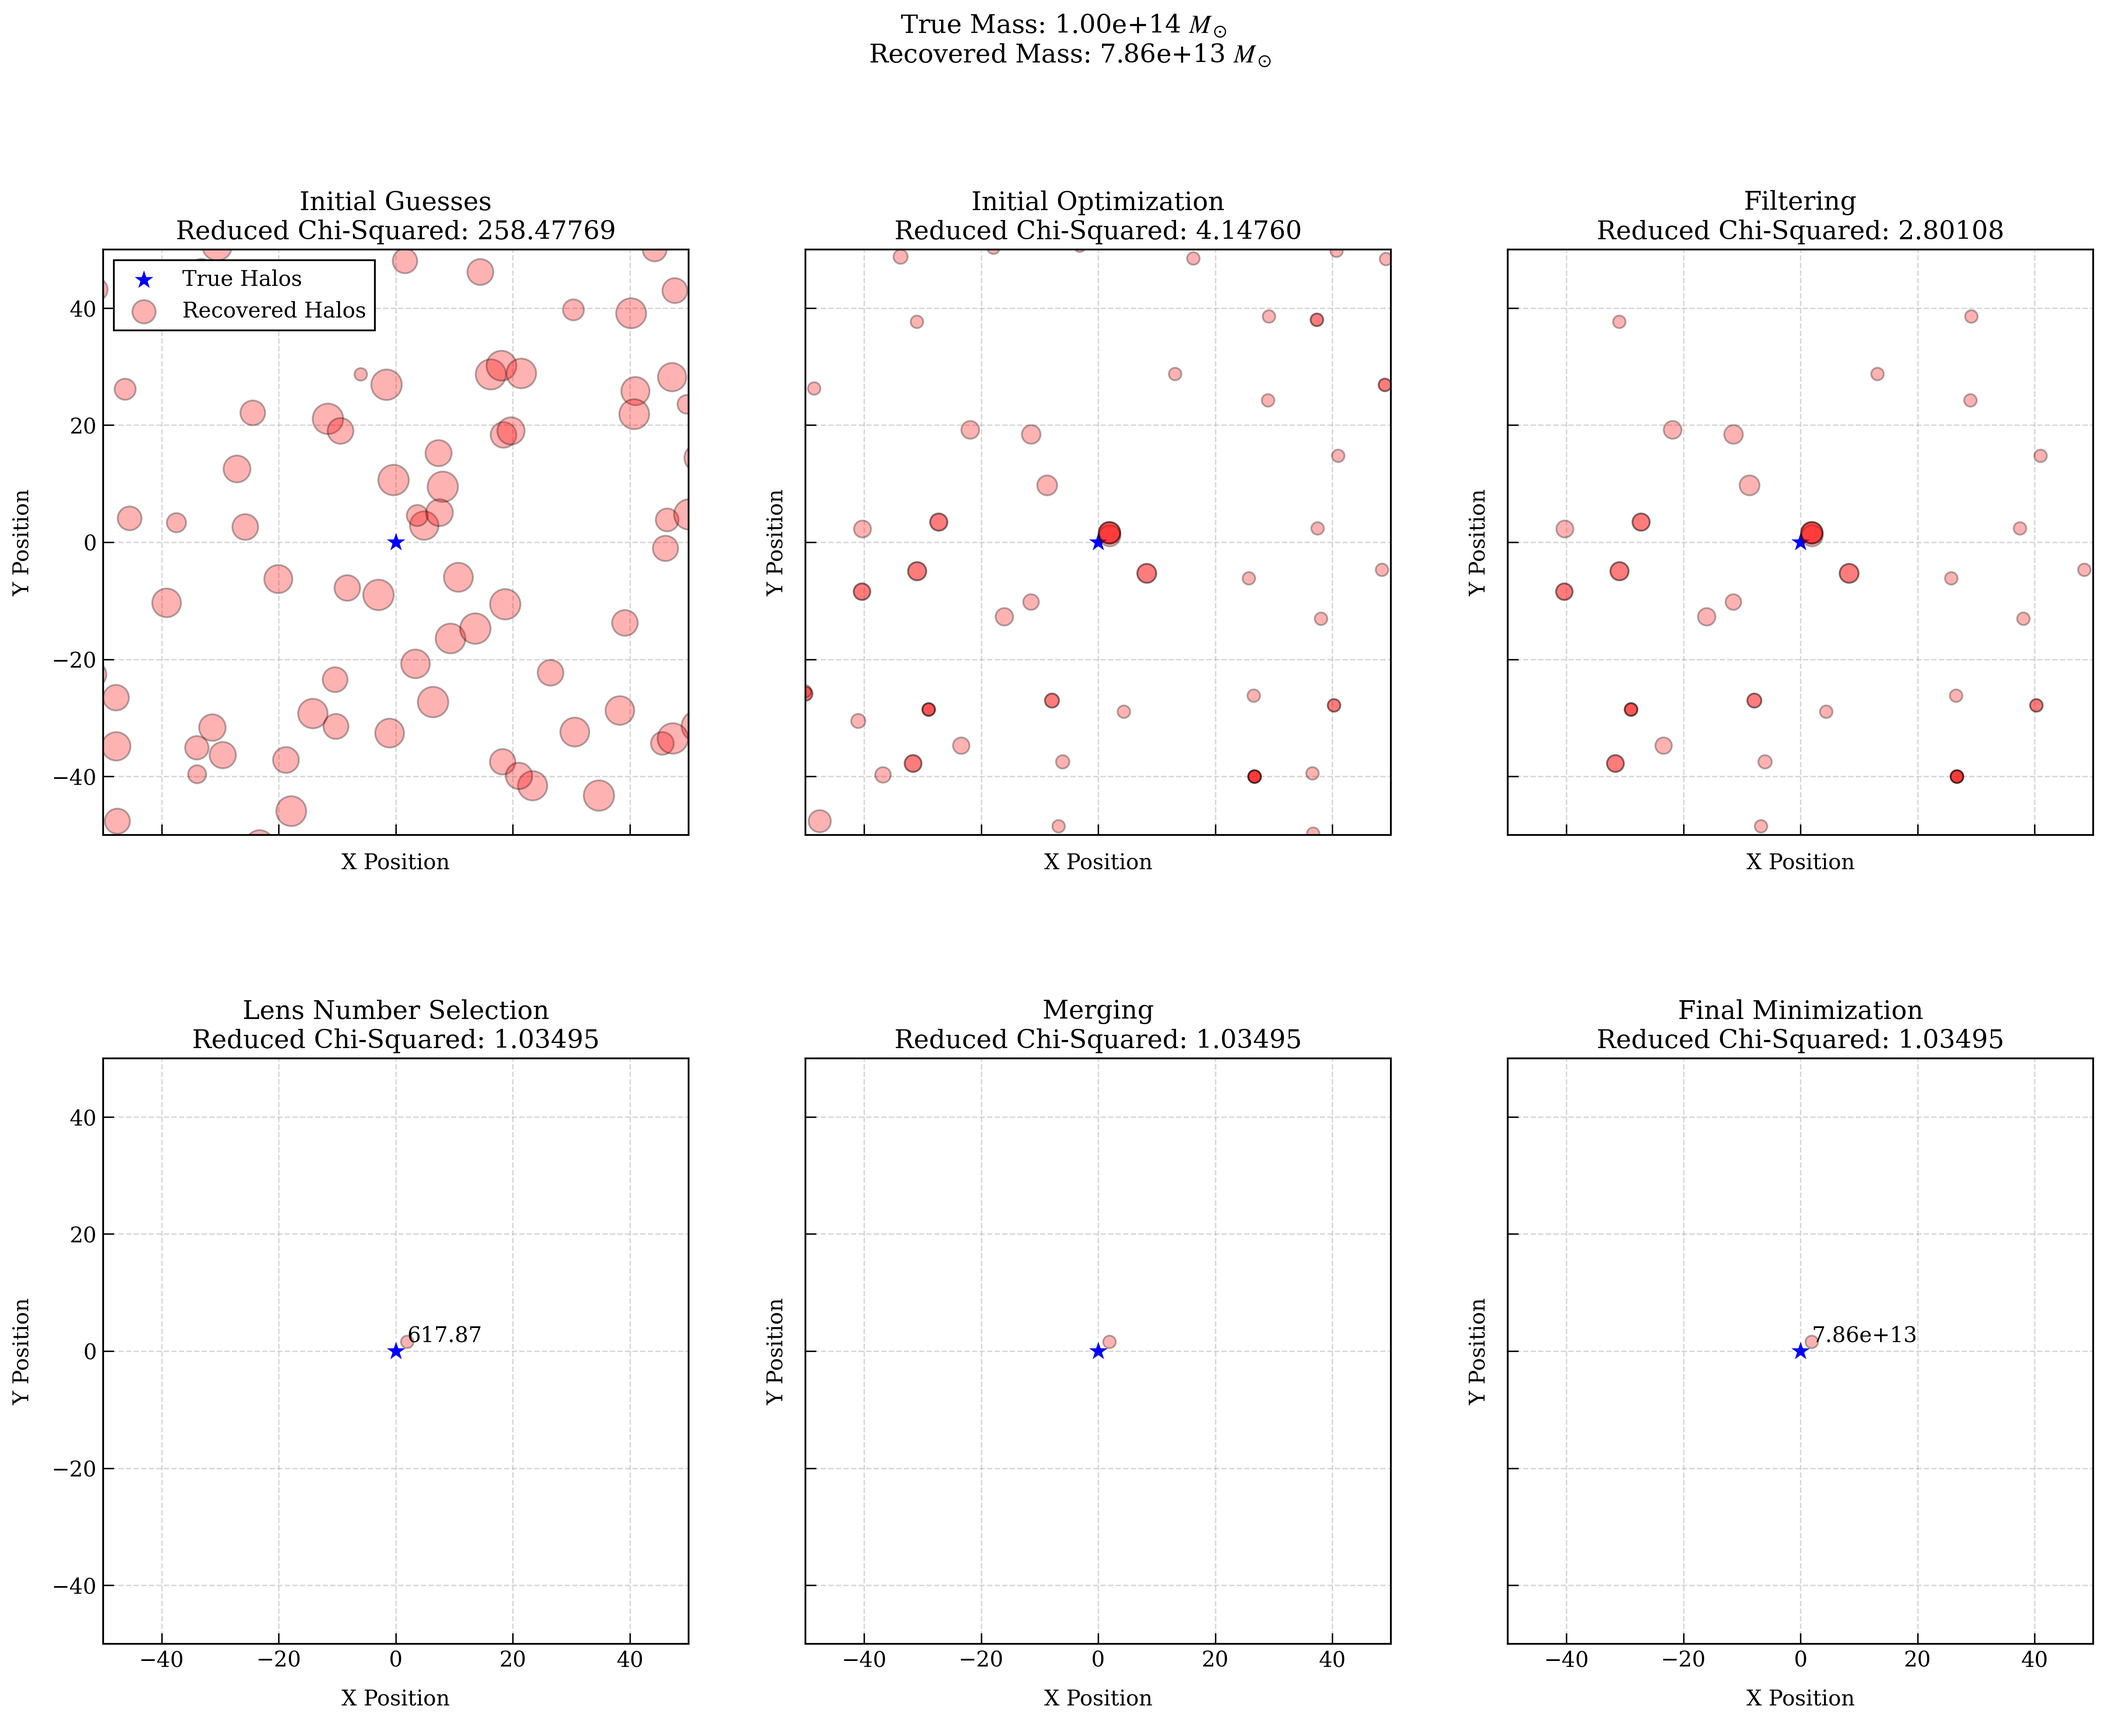
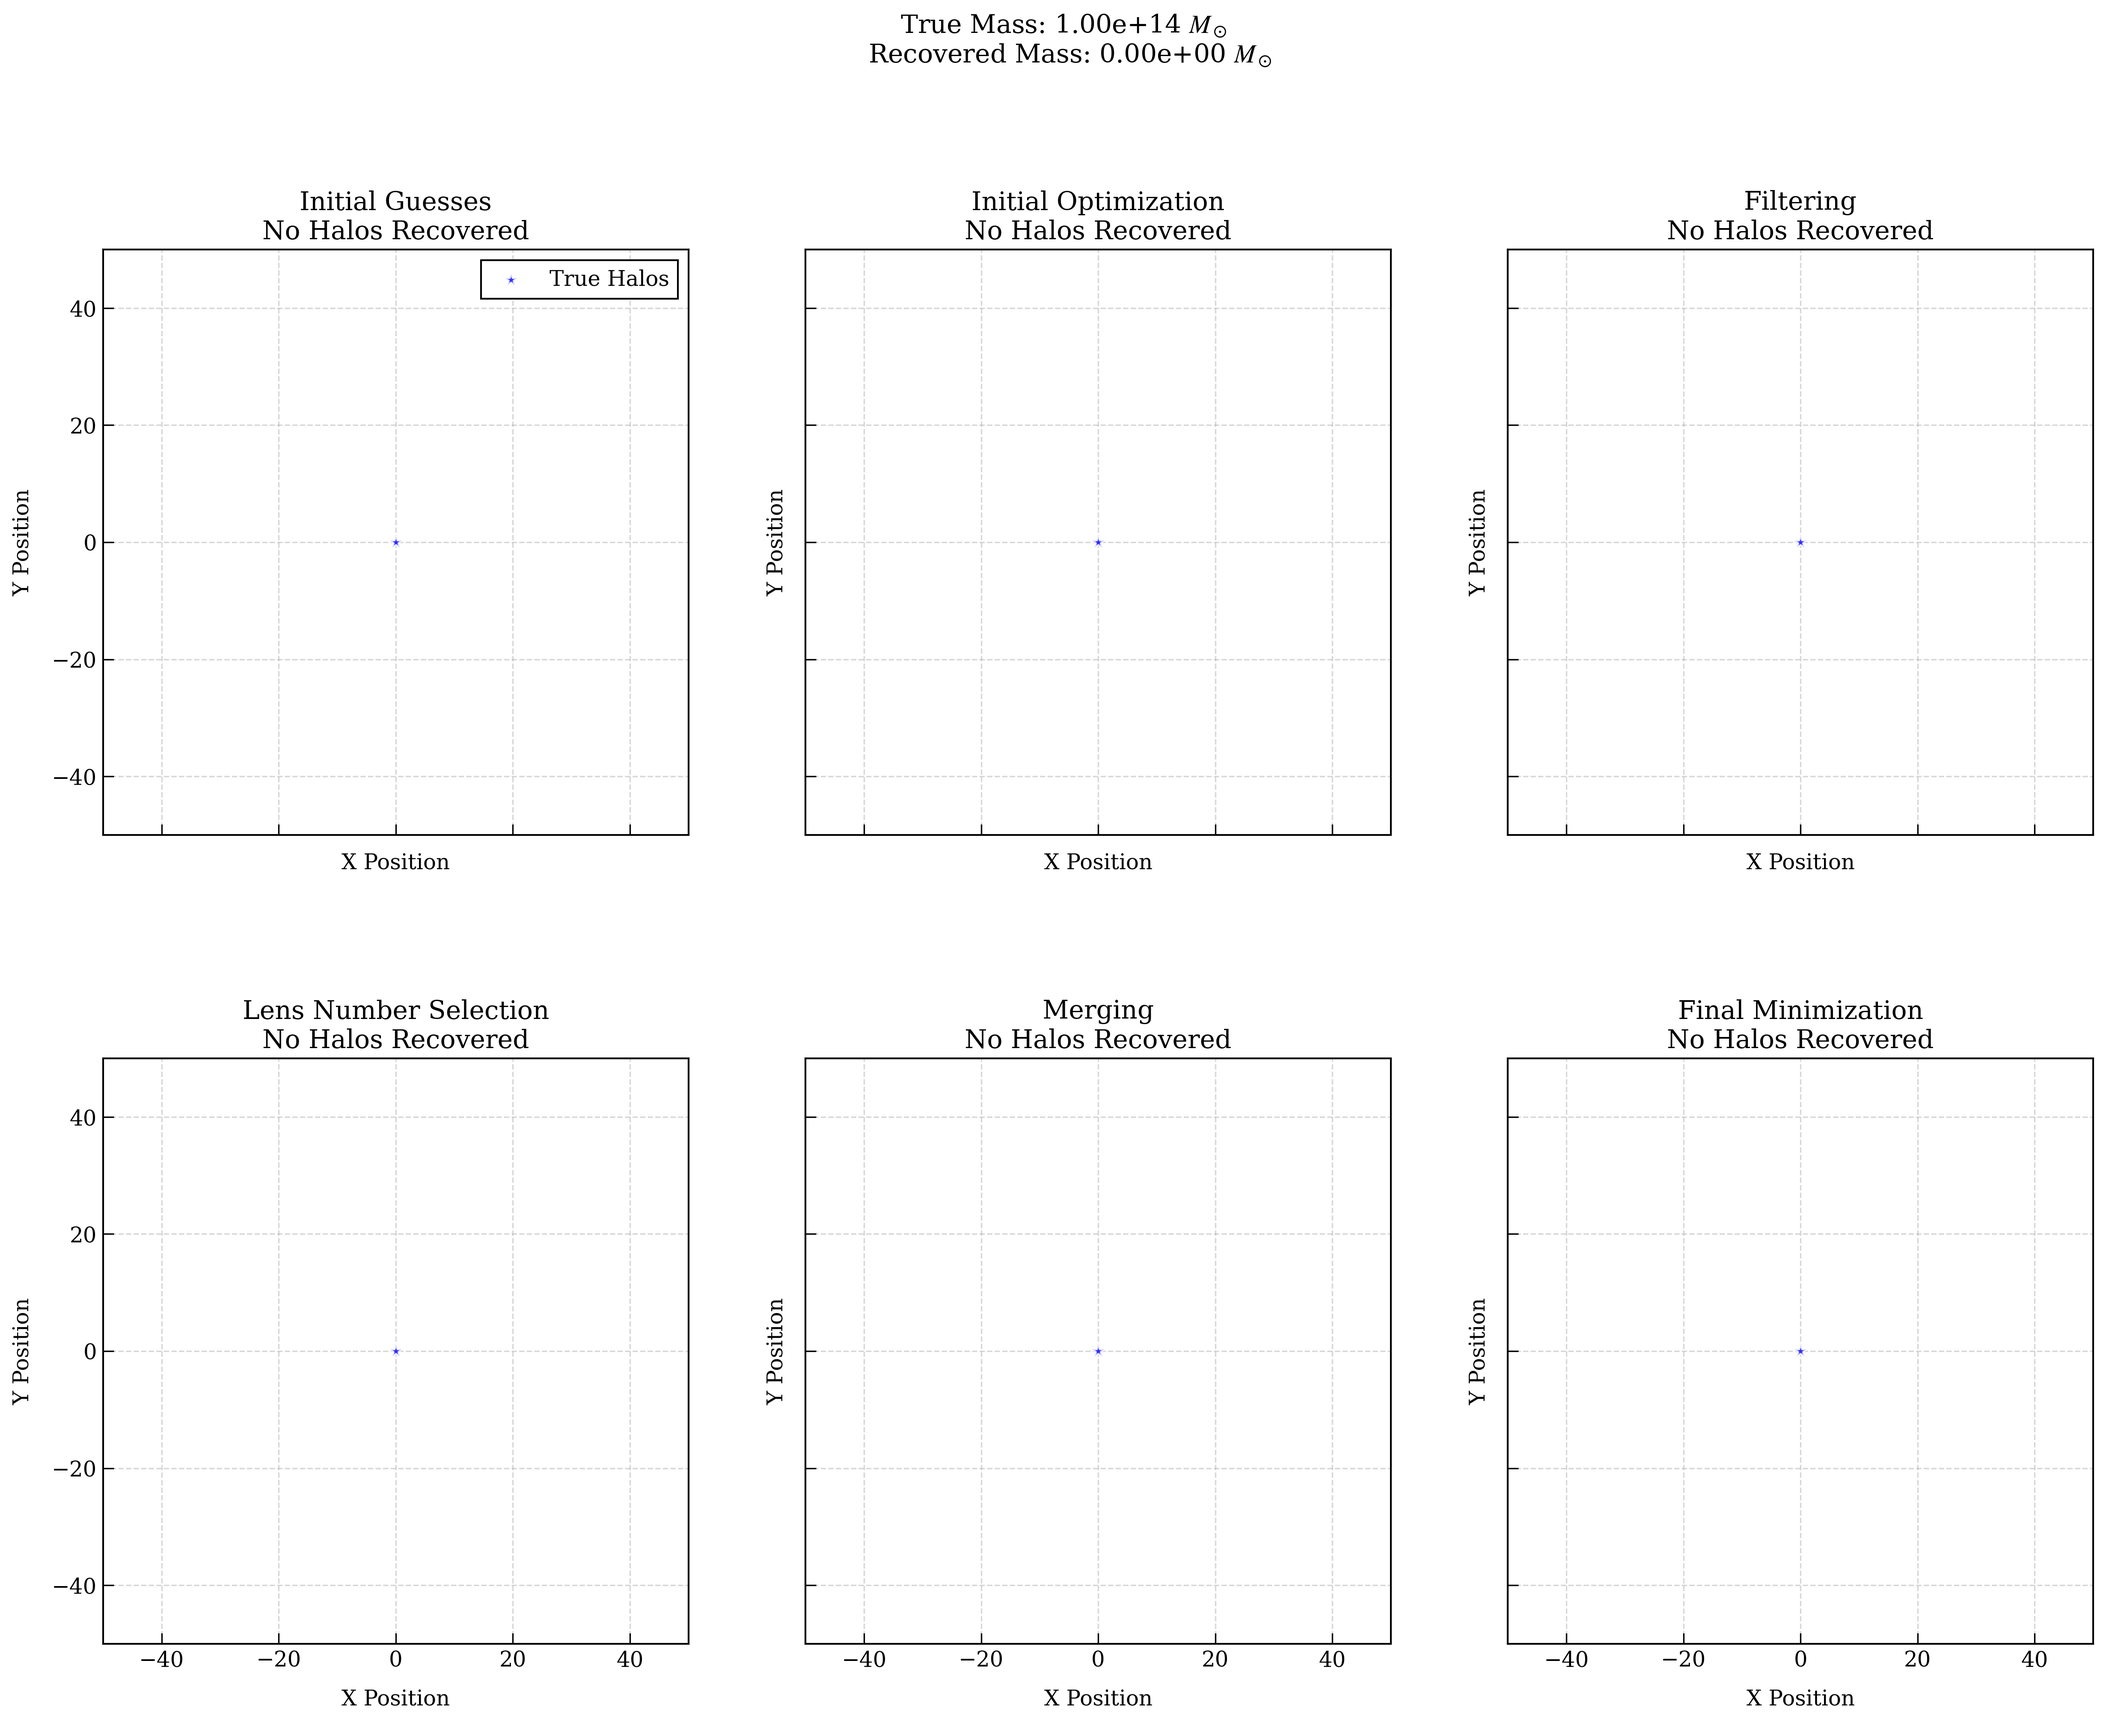
Removed unused function from pipeline

diff --git a/pipeline.py b/pipeline.py
@@ -483,162 +483,6 @@ def select_best_lenses_forward_selection(sources, candidate_lenses, use_flags, l
     return selected_lenses, best_reduced_chi2
 
 
-def select_best_lenses_with_backward_elimination(
-    sources,
-    candidate_lenses,
-    use_flags,
-    lens_type='NFW',
-    chi2_threshold=1.0,
-    tolerance=0.01
-):
-    """
-    Selects the best combination of lenses by performing forward selection followed
-    by backward elimination to minimize the reduced chi-squared value.
-
-    Parameters:
-        sources (Source): Object containing source positions and measured lensing signals.
-        candidate_lenses (NFW_Lens): NFW_Lens object containing candidate lenses.
-        use_flags (list of bool): Flags indicating which lensing signals to use [shear, flexion, second flexion].
-        lens_type (str): Type of lensing model ('SIS' or 'NFW'). Default is 'NFW'.
-        chi2_threshold (float): Target reduced chi-squared value.
-        tolerance (float): Tolerance for improvement.
-
-    Returns:
-        final_lenses (NFW_Lens): NFW_Lens object with selected lenses after backward elimination.
-        final_reduced_chi2 (float): The minimized reduced chi-squared value.
-    """
-    import numpy as np
-
-    # -------- Forward Selection --------
-    # Start with an empty set of lenses
-    selected_lenses = halo_obj.NFW_Lens(
-        x=np.array([]),
-        y=np.array([]),
-        z=np.array([]),
-        concentration=np.array([]),
-        mass=np.array([]),
-        redshift=candidate_lenses.redshift,
-        chi2=np.array([])
-    )
-
-    remaining_indices = np.arange(len(candidate_lenses.x))
-    best_reduced_chi2 = np.inf
-    improved = True
-
-    while improved and len(remaining_indices) > 0:
-        improved = False
-        chi2_list = []
-        lens_indices = []
-
-        # Evaluate the effect of adding each remaining lens
-        for idx in remaining_indices:
-            # Create a test lens set with the candidate lens added
-            test_lenses = halo_obj.NFW_Lens(
-                x=np.append(selected_lenses.x, candidate_lenses.x[idx]),
-                y=np.append(selected_lenses.y, candidate_lenses.y[idx]),
-                z=np.append(selected_lenses.z, candidate_lenses.z[idx]),
-                concentration=np.append(selected_lenses.concentration, candidate_lenses.concentration[idx]),
-                mass=np.append(selected_lenses.mass, candidate_lenses.mass[idx]),
-                redshift=candidate_lenses.redshift,
-                chi2=np.append(selected_lenses.chi2, candidate_lenses.chi2[idx])
-            )
-            # Compute chi-squared and reduced chi-squared
-            chi2 = metric.calculate_chi_squared(sources, test_lenses, use_flags, lens_type=lens_type)
-            dof = metric.calc_degrees_of_freedom(sources, test_lenses, use_flags)
-            reduced_chi2 = chi2 / dof if dof > 0 else np.inf
-            chi2_list.append(reduced_chi2)
-            lens_indices.append(idx)
-
-        # Find the lens whose addition leads to the best reduced chi-squared
-        min_chi2 = min(chi2_list)
-        min_index = chi2_list.index(min_chi2)
-
-        # Check if adding the lens improves the reduced chi-squared
-        if min_chi2 < best_reduced_chi2 - tolerance:
-            # Update the best lenses and reduced chi-squared
-            best_reduced_chi2 = min_chi2
-            idx_to_add = lens_indices[min_index]
-            print(f"Adding lens {idx_to_add} improves reduced chi-squared to {best_reduced_chi2:.4f}")
-            # Add the lens to selected_lenses
-            selected_lenses = halo_obj.NFW_Lens(
-                x=np.append(selected_lenses.x, candidate_lenses.x[idx_to_add]),
-                y=np.append(selected_lenses.y, candidate_lenses.y[idx_to_add]),
-                z=np.append(selected_lenses.z, candidate_lenses.z[idx_to_add]),
-                concentration=np.append(selected_lenses.concentration, candidate_lenses.concentration[idx_to_add]),
-                mass=np.append(selected_lenses.mass, candidate_lenses.mass[idx_to_add]),
-                redshift=candidate_lenses.redshift,
-                chi2=np.append(selected_lenses.chi2, candidate_lenses.chi2[idx_to_add])
-            )
-            # Remove the lens from remaining_indices
-            remaining_indices = np.delete(remaining_indices, min_index)
-            improved = True
-        else:
-            # No improvement, stop the iteration
-            print("No further improvement found in forward selection.")
-            break
-
-    # -------- Backward Elimination --------
-    print("\nStarting backward elimination...")
-    improved = True
-
-    while improved and len(selected_lenses.x) > 1:
-        improved = False
-        chi2_list = []
-        lens_indices = []
-
-        n_lenses = len(selected_lenses.x)
-
-        # Evaluate the effect of removing each lens
-        for i in range(n_lenses):
-            # Create a test lens set with lens i removed
-            test_lenses = halo_obj.NFW_Lens(
-                x=np.delete(selected_lenses.x, i),
-                y=np.delete(selected_lenses.y, i),
-                z=np.delete(selected_lenses.z, i),
-                concentration=np.delete(selected_lenses.concentration, i),
-                mass=np.delete(selected_lenses.mass, i),
-                redshift=selected_lenses.redshift,
-                chi2=np.delete(selected_lenses.chi2, i)
-            )
-            # Compute chi-squared and reduced chi-squared
-            chi2 = metric.calculate_chi_squared(sources, test_lenses, use_flags, lens_type=lens_type)
-            dof = metric.calc_degrees_of_freedom(sources, test_lenses, use_flags)
-            reduced_chi2 = chi2 / dof if dof > 0 else np.inf
-            chi2_list.append(reduced_chi2)
-            lens_indices.append(i)
-
-        # Find the lens whose removal leads to the lowest increase in reduced chi-squared
-        min_chi2 = min(chi2_list)
-        min_index = chi2_list.index(min_chi2)
-
-        # Check if removing the lens does not worsen the reduced chi-squared beyond the tolerance
-        if min_chi2 < best_reduced_chi2 + tolerance:
-            # Update the best lenses and reduced chi-squared
-            best_reduced_chi2 = min_chi2
-            idx_to_remove = lens_indices[min_index]
-            print(f"Removing lens {idx_to_remove} improves or maintains reduced chi-squared to {best_reduced_chi2:.4f}")
-            # Remove the lens from selected_lenses
-            selected_lenses = halo_obj.NFW_Lens(
-                x=np.delete(selected_lenses.x, idx_to_remove),
-                y=np.delete(selected_lenses.y, idx_to_remove),
-                z=np.delete(selected_lenses.z, idx_to_remove),
-                concentration=np.delete(selected_lenses.concentration, idx_to_remove),
-                mass=np.delete(selected_lenses.mass, idx_to_remove),
-                redshift=selected_lenses.redshift,
-                chi2=np.delete(selected_lenses.chi2, idx_to_remove)
-            )
-            improved = True
-        else:
-            # No improvement, stop the iteration
-            print("No further improvement found in backward elimination.")
-            break
-
-    final_lenses = selected_lenses
-    final_reduced_chi2 = best_reduced_chi2
-
-    return final_lenses, final_reduced_chi2
-
-
 def optimize_nfw_lens_strength(sources, lenses, use_flags, num_iterations=1000):
     """
     Optimizes the mass parameters of NFW lenses via local minimization.

diff --git a/tests_NFW.py b/tests_NFW.py
@@ -214,9 +214,7 @@ def pipeline_breakdown(sources, true_lenses, xmax, use_flags, noisy, name=None, 
         print('Finished filtering')
 
     # Step 4: Iterative elimination
-    # lenses = pipeline.iterative_elimination(sources, lenses, reduced_chi2, use_flags)
     lenses, _ = pipeline.select_best_lenses_forward_selection(sources, lenses, use_flags, lens_type='NFW')
-    # lenses, _ = pipeline.select_best_lenses_bic(sources, lenses, use_flags, lens_type='NFW')
     reduced_chi2 = pipeline.update_chi2_values(sources, lenses, use_flags)
     plot_results(lenses, true_lenses, 'Lens Number Selection', reduced_chi2, xmax, ax=axarr[1, 0], legend=False, show_chi2=True)
     if print_steps:
@@ -301,7 +299,7 @@ def simple_nfw_test(Nlens, Nsource, xmax, lens_mass, use_noise=True, use_flags=[
     for i in range(len(sources.x)):
         for j in range(len(optimized_lenses.x)):
             r = np.sqrt((sources.x[i] - optimized_lenses.x[j]) ** 2 + (sources.y[i] - optimized_lenses.y[j]) ** 2)
-            if r > 10:
+            if r > 20:
                 indices.append(i)
                 break
     
